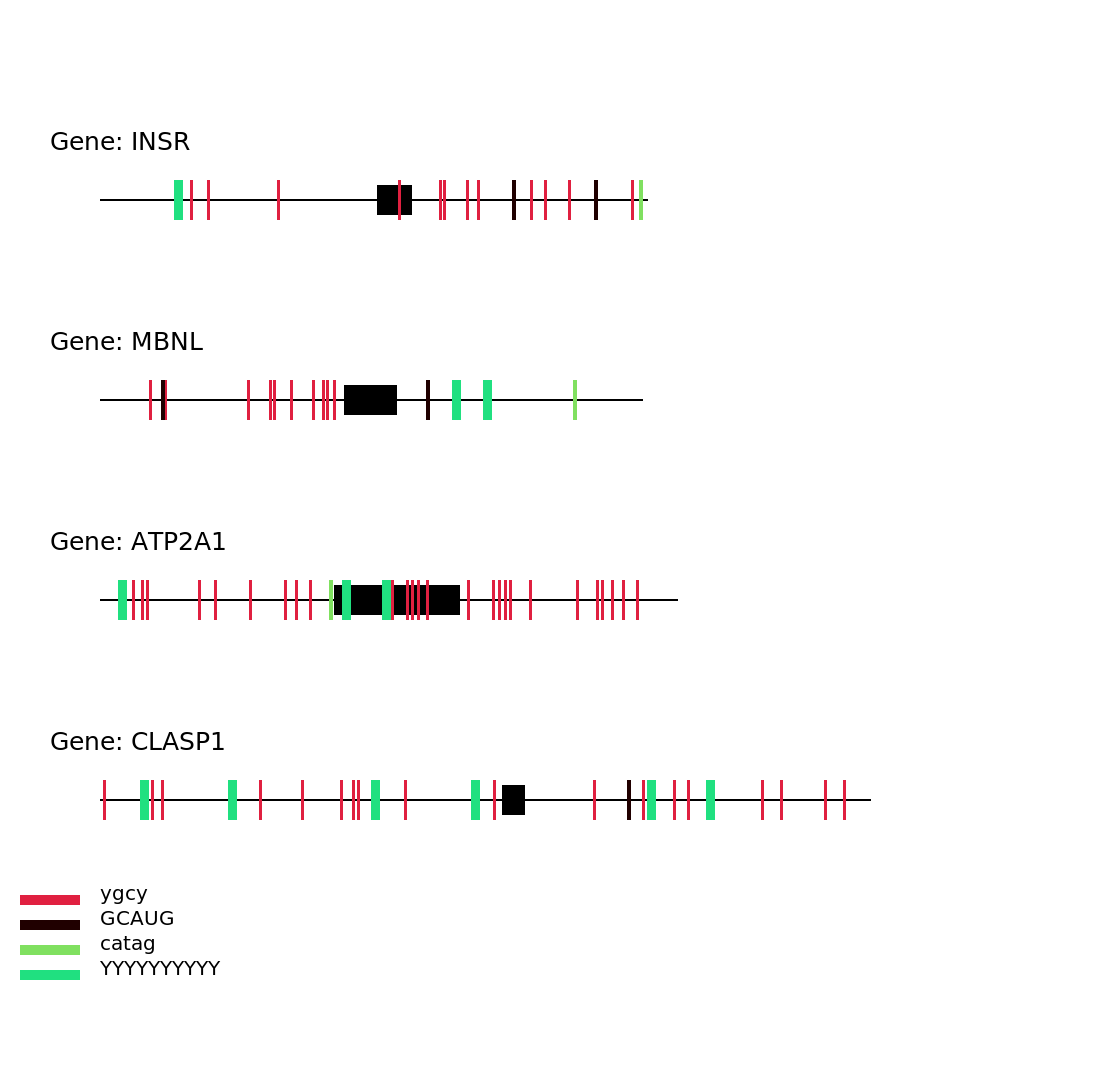
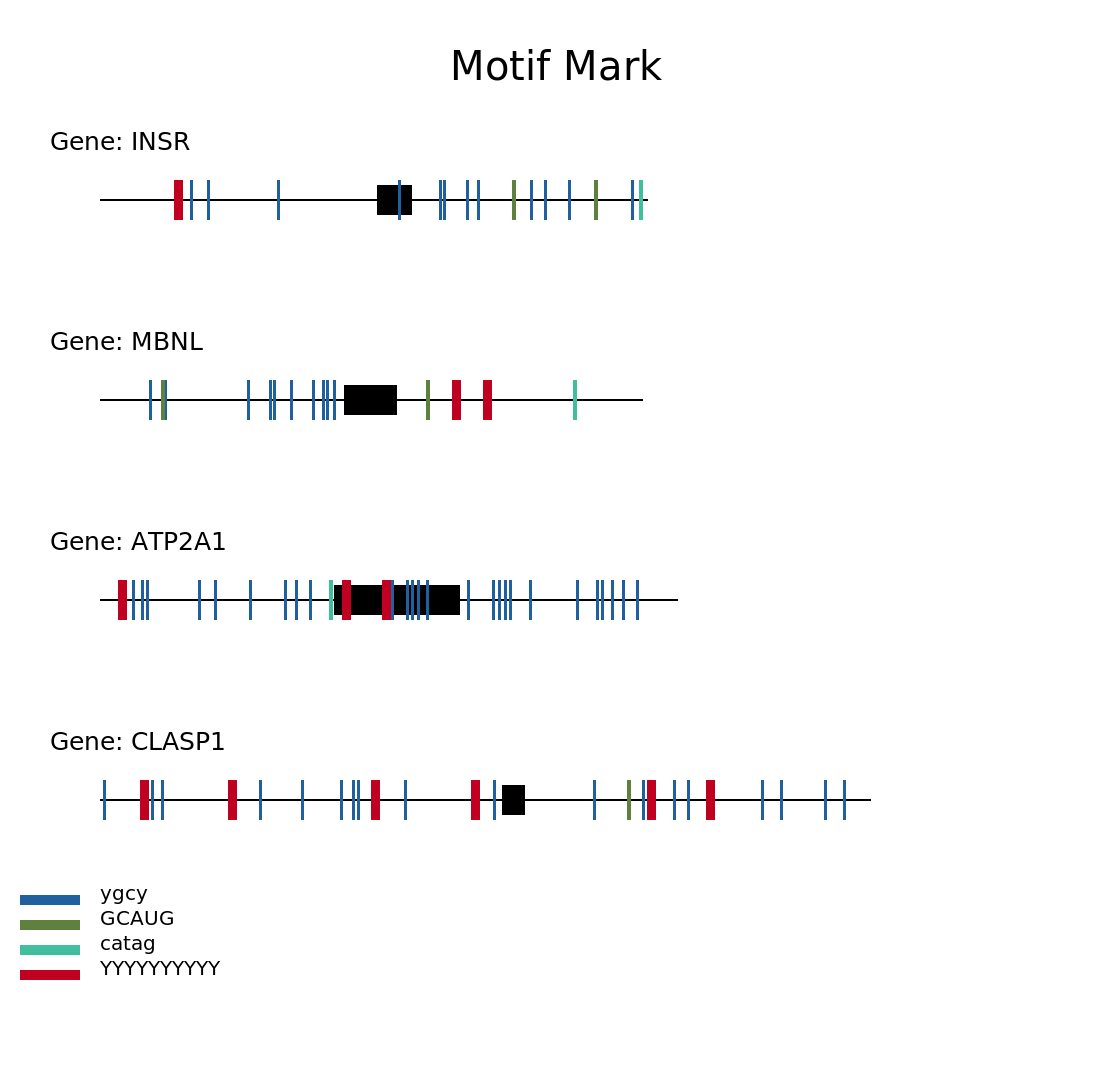
Added Comments

diff --git a/motif-mark-oop.py b/motif-mark-oop.py
@@ -11,11 +11,25 @@ def get_args():
 
     return parser.parse_args()
 
+## International Union of Pure and Applied Chemistry codes allow for symbols such as "Y" to represent ambiguous nucleotides such as "C or T". 
+## This uses Regex equivalent of the ambiguous nucleotides to create a search for motifs with IUPAC symbols in them
 IUPAC_codes = {'A':'[Aa]', 'C': '[Cc]','G':'[Gg]','T':'[Tt]','U':'[Tt]', 'R':'[AGag]','Y':'[CTct]','S':'[GCgc]','W':'[ATat]','K':'[GTgt]','M':'[ACac]','B':'[CGTcgt]','D':'[AGTagt]','H':'[ACTact]','V':'[ACGacg]','N':'[ACTGactg]',
                'a':'[Aa]', 'c': '[Cc]','g':'[Gg]','t':'[Tt]','u':'[Tt]', 'r':'[AGag]','y':'[CTct]','s':'[GCgc]','w':'[ATat]','k':'[GTgt]','m':'[ACac]','b':'[CGTcgt]','d':'[AGTagt]','h':'[ACTact]','v':'[ACGacg]','n':'[ACTGactg]'
                }
 
 class Motif:
+    '''Each individual instance of a motif creates a motif object. 
+    
+    Attributes: 
+        Start: Starting position of the motif
+        Stop: End position of the motif
+        Seq: The original sequence in the motif file, containing the IUPAC codes
+        Color: Randomly assigned color, unique to each motif sequence
+        Order: Order of the FASTA file that the motif is found in. Used for y-coordinate while drawing
+    
+    Methods:
+        draw_motif: Draws motif on corresponding FASTA visualization
+    '''
     def __init__(self, seq, start, stop, order):
         self.start = start
         self.stop = stop
@@ -25,15 +39,31 @@ class Motif:
         self.red, self.green, self.blue = self.color 
     
     def draw_motif(self, context):
-        context.set_source_rgb(self.red, self.green, self.blue)
+        context.set_source_rgb(self.red, self.green, self.blue) # Unique color from motif_dict
         context.set_line_width(40)
-        context.move_to(self.start + 100, 200 * self.order)
+        context.move_to(self.start + 100, 200 * self.order) # (x, y)
         context.line_to(self.stop + 100, 200 * self.order)
         context.stroke()
 
         
 
 class FastaRecord:
+    '''FASTA record that will be visualized with motifs
+    Attributes:
+        Gene: Just the gene name, extracted from record header
+        Seq: Full FASTA sequence
+        RC: Bool RC, based on "(reverse complement)" in record header
+        Order: Order of appearence in FASTA file. Used for y-coordinate in drawing
+        Start: Exon start position
+        End: Exon end position
+        Motif_list: All motifs that appear in the record
+        Length: Length of full record sequence
+    
+    Methods:
+        find_motifs: Uses Regex to find all instances of motifs in record, creating unique object for each motif found
+        find_exon: Uses Regex to find start and stop position of the one and only one exon in each gene
+        draw: Creates visualization of gene, exon, and every motif in motif_list
+    '''
     def __init__(self, gene, order, seq, RC: bool):
         self.gene = gene
         self.seq = seq
@@ -42,54 +72,59 @@ class FastaRecord:
         self.start, self.end = self.find_exon(seq)
         self.motif_list = self.find_motifs(seq, motif_dict)
         self.length = len(seq)
-    
-    def __repr__(self):
-        return f"Order: {self.order}"#"motifs: {self.motif_list}"#f"FASTA record with gene {self.gene} and sequence {self.seq} (Reverse complemented: {self.RC})"
-    
-    def find_motifs(self, seq, motif_dict):
-        motifs = []
-        for motif, regex in motif_dict.items():
+     
+    def find_motifs(self, seq: str, motif_dict: dict) -> list:
+        motifs = [] # List of motif objects for each instance of a motif in the FASTA record
+        for motif, regex in motif_dict.items(): # Motif_dict contains Regex equivalent of all motif sequences, accounting for IUPAC codes
             matches = re.finditer(regex, seq)
             for match in matches:
-                motifs.append(Motif(motif, match.start() + 1, match.end(), self.order))
+                motifs.append(Motif(motif, match.start() + 1, match.end(), self.order)) # 1-based index of motif start and stop point
         return motifs
 
-    def find_exon(self, seq):
-        exon = re.search(r'[A-Z]+', seq)
+    def find_exon(self, seq: str) -> tuple[int, int]:
+        exon = re.search(r'[A-Z]+', seq) # Contiguous sequence of all capital letters denotes exon -- problem specification states one and only one exon per FASTA record
         if exon:
             start = exon.start() # Returns 0-indexed start position of matching group
             end = exon.end()
+        else:
+            raise Exception("Records must have contain exactly one exon")
         return (start + 1, end) # I want to use 1-based indexing
     
     def draw(self, context):
-        context.set_source_rgb(0, 0, 0)
+        ## Drawing black line for entire gene
+        context.set_source_rgb(0, 0, 0) # RBG code for black
         context.set_line_width(2)
         context.move_to(100, 200 * self.order)  #(x,y)
         context.line_to(self.length + 100, 200 * self.order)
         context.stroke()
 
+        ## Drawing black box for exon
         context.set_source_rgb(0,0,0)
         context.set_line_width(30)
         context.move_to(self.start + 100, 200 * self.order)
         context.line_to(self.end + 100, 200 * self.order)
         context.stroke()
         
+        ## Drawing gene label
         context.set_source_rgba(0, 0, 0, 1)
         context.set_font_size(25) 
         context.move_to(50, 200 * self.order - 50)
         context.show_text(f"Gene: {self.gene}")
 
+        ## Drawing all motifs for FASTA record
         for motif in self.motif_list:
             motif.draw_motif(context)
 
 
 def generate_regex(motif: str) -> str:
+    '''Uses IUPAC codes dictionary to create Regex equivalent of each motif'''
     regex = ""
     for char in motif:
         regex = regex + IUPAC_codes[char]
     return regex
 
 def generate_motif_dict(motifpath: str) -> dict: 
+    '''Creates dictionary for all motif sequences containing Regex equivalents'''
     motifs = {}
     with open(motifpath, "r") as fh:
         for motif in fh:
@@ -99,50 +134,69 @@ def generate_motif_dict(motifpath: str) -> dict:
                 motifs[motif] = motif_regex
     return motifs
         
-def generate_colors(motiflist) -> dict:
+def generate_colors(motiflist: dict) -> dict:
+    '''Returns randomly selected red, green, and blue values that are at least 32 apart for at least one element on the 0-256 scale'''
+    random.seed(1738)
     colors_dict = {}
     options = range(0,256,32) # All generated values must be at least 32 away on at least one element of the RGB scale in order to appear distinct
     for motif in motiflist:
-        red = random.choice(options) / 255
-        green = random.choice(options) / 255
-        blue = random.choice(options) / 255
+        red, green, blue = random.sample(options, 3) # Sampling from colors without replacement to ensure no repeats
+        red, green, blue = red / 256, green / 256, blue / 256 # PyCairo wants colors between 0-1, not 0-256
         colors_dict[motif] = (red, green, blue)
     return colors_dict
 
 def parse_fasta(fastapath: str) -> list:
+    '''Processes FASTA file and returns list of FASTA objects. Extracts gene, sequence, order, and RC bool contained within FASTA object'''
     fasta_list = []
     seq = ""
     gene = None
     order = 0
     with open(fastapath, "r") as fh:
         for line in fh:
-            if line.startswith('>'):
-                if gene: #Should only not happen the first line, where gene will be None
+            if line.startswith('>'): # Only header lines begin with >
+                if gene: # Should only not happen the first line, where gene will be None
                     order += 1
-                    record = FastaRecord(gene,order,seq,RC)#After that, every time a header will be encountered the record will be written
+                    record = FastaRecord(gene,order,seq,RC) # After that, every time a header is encountered the record will be written
                     fasta_list.append(record)
                 gene = re.match(r">(\S+)", line).group(1) # Literal > followed by any number of non-whitespace characters
                 rev_comp = "reverse complement" in line.lower() 
-                RC = bool(rev_comp) #Establishing values for next record
-                seq = "" #Initializing empty string for next record
+                RC = bool(rev_comp) # Establishing values for next record
+                seq = "" # Initializing empty string for next record
             else:
                 seq += line.strip() # Adding every non-header line to the sequence string
-    order += 1 # Adding final record
+    # Adding final record
+    order += 1 
     record = FastaRecord(gene,order,seq,RC)
     fasta_list.append(record)
     return fasta_list
 
-def final_drawing(fasta_list, filename): 
+def final_drawing(fasta_list: list, filename: str):
+    '''Creates surface, context, title, key, and calls draw method on all FASTA objects.''' 
+    ## File sizing
     width = 1100 # Hard coded because we know no sequences are longer than 1000
     height = len(fasta_list) * 200 + len(motif_dict) * 70 # Account for number of genes and size of key
     surface = cairo.ImageSurface(cairo.FORMAT_ARGB32,width,height)
     context = cairo.Context(surface)
+
+    ## White background
     context.set_source_rgb(1, 1, 1)
-    context.rectangle(0, 0, width, height) # White background
+    context.rectangle(0, 0, width, height)
     context.fill()
+    
+    ## Title
+    context.set_source_rgba(0, 0, 0, 1)
+    context.set_font_size(40) 
+    context.move_to(450, 80)
+    context.show_text("Motif Mark") 
+
+    ## Drawing all FASTAs and motifs
     for fasta in fasta_list:
         fasta.draw(context)
+    
+    ## Key
     draw_key(context)
+
+    ## Saving file
     surface.write_to_png(f"{filename}.png")
 
 def draw_key(context):
@@ -158,16 +212,7 @@ def draw_key(context):
         context.line_to(80, 25 * i + len(fasta_list) * 200 + 100)
         context.stroke()
 
-    # color = dict_of_motif_color[m]
-    # context.set_source_rgb(color[0],color[1],color[2])  
-    # context.set_line_width(10)
-    # context.move_to(20, i*30 + (len(list_of_geneGroups)*100) + 145)  #(x,y)
-    # context.line_to(80,i*30 + (len(list_of_geneGroups)*100) + 145)
-    # context.stroke()
-
-
 if __name__ == "__main__":
-
     args = get_args() 
     fasta = args.f
     motif_file = args.m
@@ -176,5 +221,4 @@ if __name__ == "__main__":
     color_dict = generate_colors(motif_dict)
     fasta_list = parse_fasta(fasta)
     final_drawing(fasta_list,file_prefix)
-    #key = generate_colors(motif_list)
 
